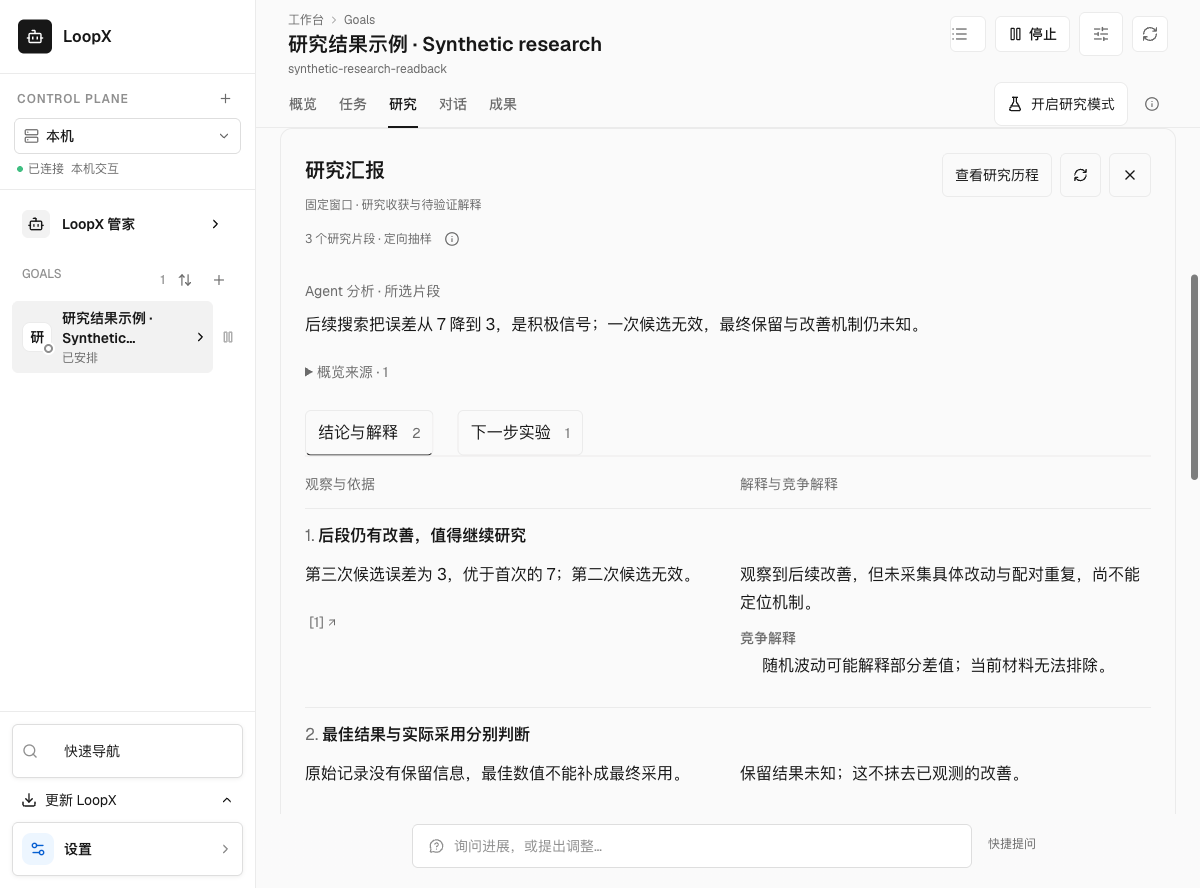
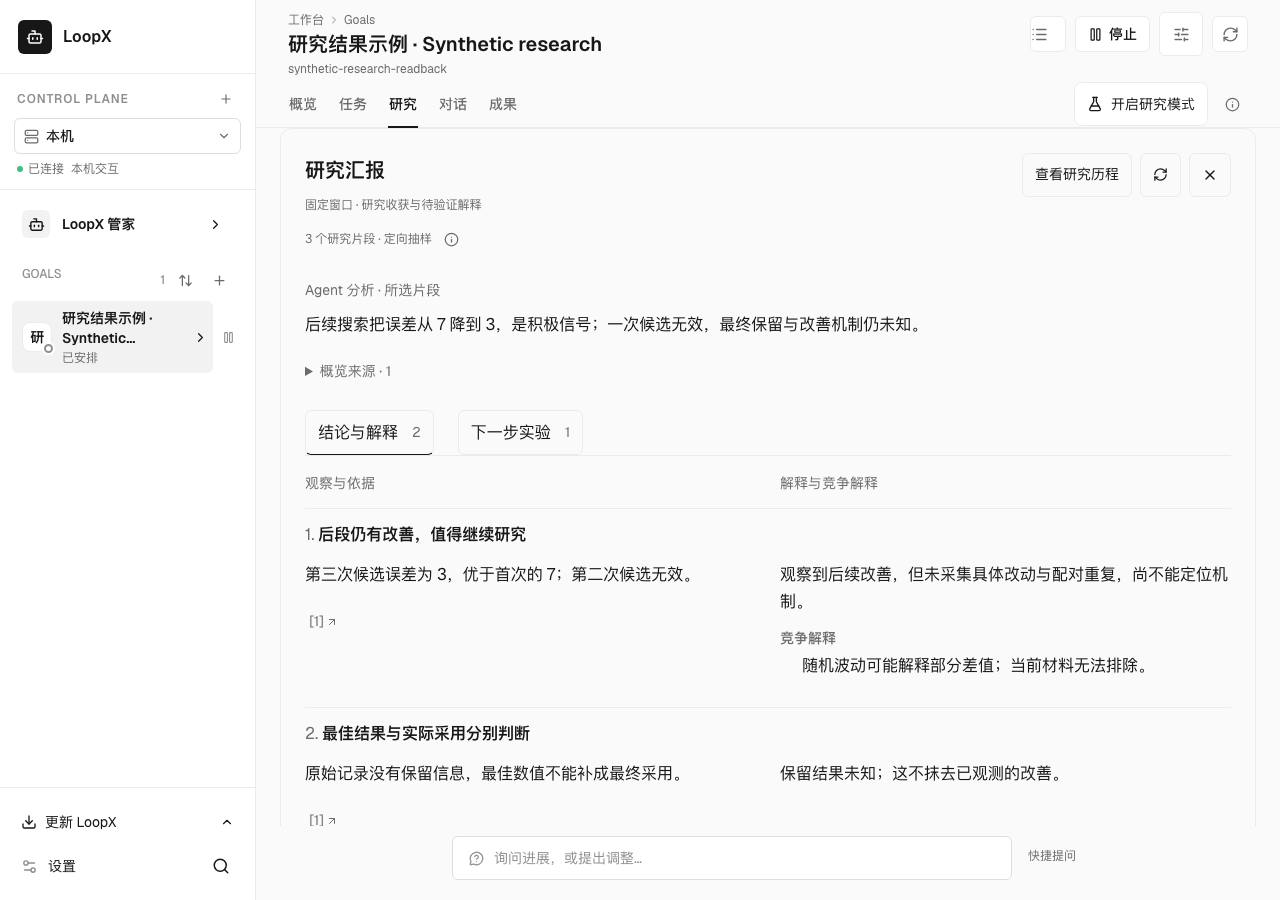
refine(research): keep episode scope and return focus accurate

diff --git a/apps/presentation/dashboard/src/features/personal-workspace/goal-research-analysis.tsx b/apps/presentation/dashboard/src/features/personal-workspace/goal-research-analysis.tsx
@@ -1,5 +1,5 @@
 import {useCallback, useEffect, useLayoutEffect, useRef, useState} from "react";
-import {ArrowUpRight, ChevronDown, CircleHelp, LoaderCircle, RefreshCw, Sparkles, TriangleAlert, X} from "lucide-react";
+import {ArrowLeft, ArrowUpRight, ChevronDown, CircleHelp, LoaderCircle, RefreshCw, Sparkles, TriangleAlert, X} from "lucide-react";
 import type {AssessmentCitation, TrajectoryAssessment, TrajectoryEpisode, TrajectoryOutputLanguage, TrajectoryContinuation} from "../../../../../../loopx/control_plane/capabilities/trajectory_assessment_types.js";
 import {ResearchProgress, episodeQuestionGroups, metricCopy, verdictLabel, type ResearchProgressPack} from "./goal-research-progress";
 import {requestJson} from "../../data/chat";
@@ -366,6 +366,7 @@ function AnalysisReport({pack, result, zh, onCitation}: {pack: Pack; result: Tra
   const origin = useRef<HTMLButtonElement | null>(null);
   const [review, setReview] = useState<{ids: string[]; sequence: number} | null>(null);
   const [all, setAll] = useState(false);
+  const shownCount = (pack.episodes ?? []).filter(episode => all || !review || review.ids.includes(episode.id)).length;
   useLayoutEffect(() => {
     if (!review || !reader.current) return;
     reader.current.open = true;
@@ -380,11 +381,18 @@ function AnalysisReport({pack, result, zh, onCitation}: {pack: Pack; result: Tra
         setAll(false);
         setReview(previous => ({ids, sequence: (previous?.sequence ?? 0) + 1}));
       } : undefined}/>
-    <details className="analysis-method" ref={reader}><summary>{zh ? "逐片段复核" : "Review individual episodes"}</summary>
+    <details className="analysis-method" ref={reader}><summary>{zh ? "研究片段" : "Research episodes"}</summary>
       {review ? <div className="analysis-episode-reading">
-        <button type="button" onClick={() => {reader.current!.open = false; origin.current?.focus();}}>{zh ? "返回汇报" : "Back to report"}</button>
-        <span>{zh ? "相关片段" : "Related episodes"} · {review.ids.length} / {pack.episode_count}</span>
-        {!all ? <button type="button" onClick={() => {setAll(true); requestAnimationFrame(() => reader.current?.querySelector("summary")?.focus());}}>{zh ? "显示全部片段" : "Show all episodes"}</button> : null}
+        <button type="button" onClick={() => {
+          if (!reader.current) return;
+          reader.current.open = false;
+          const target = origin.current?.isConnected ? origin.current
+            : reader.current.previousElementSibling?.querySelector<HTMLElement>('[role="tab"][aria-selected="true"]');
+          target?.focus({preventScroll: true});
+          target?.scrollIntoView({block: "center"});
+        }}><ArrowLeft size={14} aria-hidden/>{zh ? "返回汇报" : "Back to report"}</button>
+        <span role="status" aria-label={all ? (zh ? "全部片段" : "All episodes") : (zh ? "相关片段" : "Related episodes")}>{shownCount} / {pack.episode_count}</span>
+        <button type="button" aria-pressed={all} onClick={() => setAll(value => !value)}>{all ? (zh ? "只看相关片段" : "Related episodes only") : (zh ? "显示全部片段" : "Show all episodes")}</button>
       </div> : null}
       <AnalysisEpisodes key={`${review?.sequence ?? 0}:${all}`} pack={pack} result={result} zh={zh} onCitation={onCitation} selectedIds={review && !all ? review.ids : undefined}/>
     </details>

diff --git a/apps/presentation/dashboard/src/features/personal-workspace/goal-research-synthesis.tsx b/apps/presentation/dashboard/src/features/personal-workspace/goal-research-synthesis.tsx
@@ -1,5 +1,5 @@
 import {useId, useState, type ReactNode} from "react";
-import {ArrowUpRight} from "lucide-react";
+import {ArrowDownRight, ArrowUpRight} from "lucide-react";
 import type {AssessmentCitation, TrajectoryResearchSynthesis} from "../../../../../../loopx/control_plane/capabilities/trajectory_assessment_types.js";
 import "./goal-research-synthesis.css";
 
@@ -18,7 +18,7 @@ export function ResearchSynthesis({synthesis: s, zh, detail = false, onExpand, o
       onClick={event => onCitation(c, event.currentTarget)}>[{i + 1}]<ArrowUpRight size={12} aria-hidden/></button>)}</div>;
   const alternatives = (items: string[]) => items.length ? <><h6>{zh ? "竞争解释" : "Competing explanations"}</h6><ul>{items.map((text, n) => <li key={n}>{text}</li>)}</ul></> : null;
   const episodeLink = (ids: string[]) => onReviewEpisodes && ids.length ? <button type="button" className="research-review-episodes"
-    onClick={event => onReviewEpisodes(ids, event.currentTarget)}>{zh ? "复核相关片段" : "Review related episodes"} · {ids.length}<ArrowUpRight size={14} aria-hidden/></button> : null;
+    onClick={event => onReviewEpisodes(ids, event.currentTarget)}>{zh ? "查看片段" : "View episodes"} · {ids.length}<ArrowDownRight size={14} aria-hidden/></button> : null;
   const controls = (experiment: TrajectoryResearchSynthesis["next_experiments"][number]) => <dl>
     <dt>{zh ? "最小干预" : "Smallest intervention"}</dt><dd>{experiment.intervention}</dd>
     <dt>{zh ? "固定条件" : "Controls"}</dt><dd>{experiment.controls}</dd>
@@ -70,7 +70,7 @@ export function ResearchSynthesis({synthesis: s, zh, detail = false, onExpand, o
     </>;
   }
   return <section className={`research-synthesis${detail ? " research-synthesis-detail" : ""}`} aria-label={zh ? "研究汇报" : "Research report"}>
-    <header>{!detail ? <h3>{zh ? "研究汇报" : "Research report"}</h3> : null}<span>{zh ? "Agent 分析 · 所选片段" : "Agent analysis · selected episodes"}</span>
+    <header>{!detail ? <h3>{zh ? "研究汇报" : "Research report"}</h3> : null}<span>{zh ? "Agent 分析" : "Agent analysis"}</span>
       {!detail && onExpand ? <button type="button" className="research-report-expand" onClick={event => onExpand(event.currentTarget)}>{zh ? "深入解读" : "Read deeper"}<ArrowUpRight size={14} aria-hidden/></button> : null}
     </header>
     <p className="research-synthesis-summary">{s.summary.text}</p>
